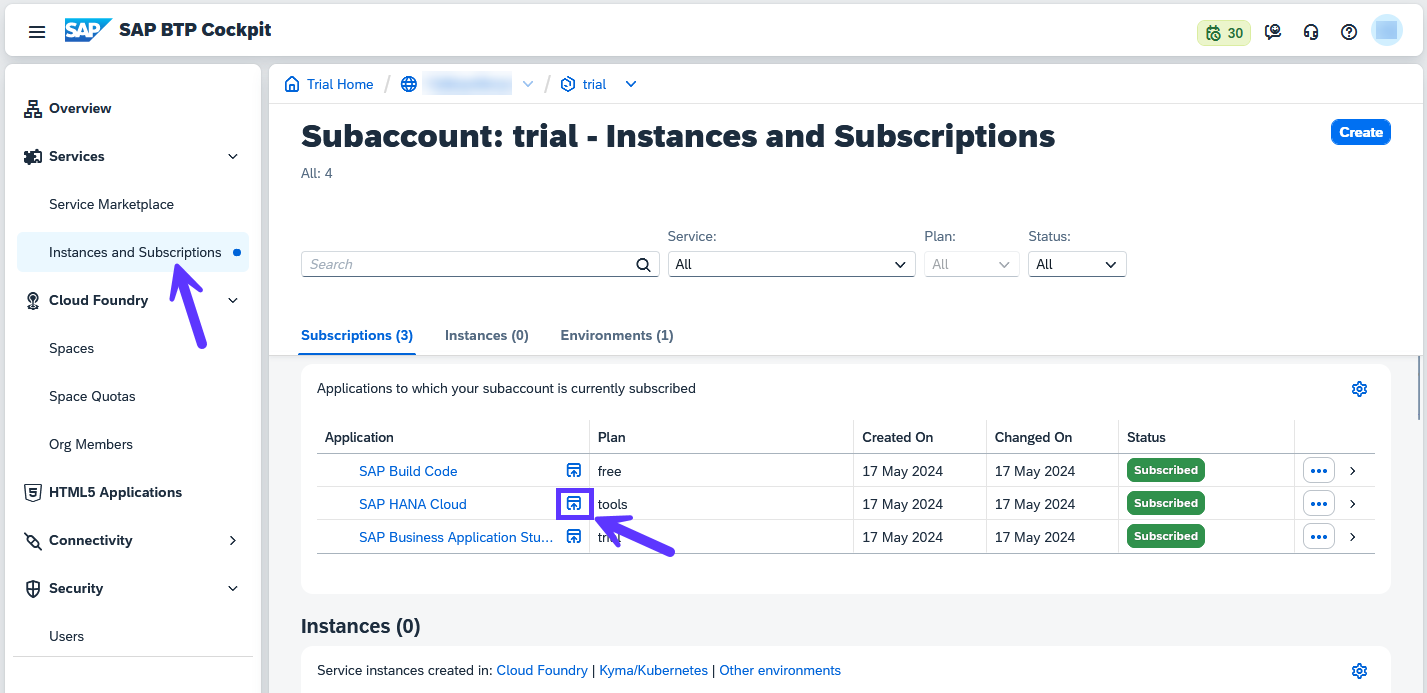
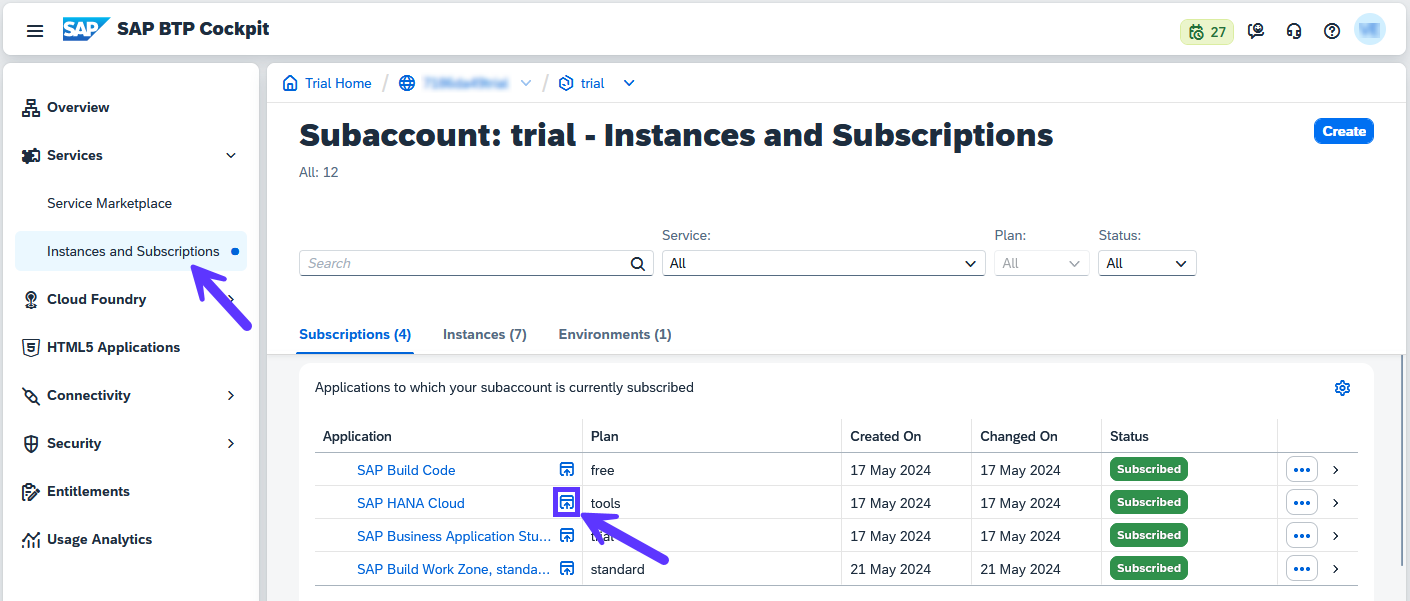
Completed step 8 - deploy

diff --git a/Customer_Loyalty_Program/8_Deploy.md b/Customer_Loyalty_Program/8_Deploy.md
@@ -1,4 +1,4 @@
-# 7 - Deploy
+# 8 - Deploy
 
 ## Preparation
 
@@ -14,27 +14,31 @@
 
 ![](./Images/8_Screenshot_Create_HANA_Tools.png)
 
-4. Go to **Security**->**Users** and assign Role Collection *SAP HANA Cloud Administrator* to your user.
+4. Now go back to the Service Marketplace and look for *SAP Build Work Zone*. Then click on **Create** and in as *Plan* choose **subscription** -> **standard**. Then press **Create**.
+
+![](./Images/8_Screenshot_Create_WZ_Service.png)
+
+5. Go to **Security**->**Users** and assign Role Collection *SAP HANA Cloud Administrator* to your user.
 
 ![](./Images/8_Screenshot_Assign_Role_Collection.png)
 
-5. Go to **Instances and Subscriptions** and wait for the *SAP HANA Cloud* subscription to be in the list. Then click on the navigation icon.
+6. Go to **Instances and Subscriptions** and wait for the *SAP HANA Cloud* subscription to be in the list. Then click on the navigation icon.
 
 ![](./Images/8_Screenshot_Goto_HANA_Application.png)
 
-6. SAP HANA Cloud Central will load. If you see an error message asking you to sign out for new authorizations to take effect, simply use the link in the error message and sign in again.
+7. SAP HANA Cloud Central will load. If you see an error message asking you to sign out for new authorizations to take effect, simply use the link in the error message and sign in again.
 
-7. Click on **Create Instance**:
+8. Click on **Create Instance**:
 
 ![](./Images/8_Screenshot_Create_Instance.png)
 
-8. Follow the steps below to configure the instance:
+9. Follow the steps below to configure the instance:
 
-1) Choose **type** *SAP HANA Cloud, SAP HANA Database* then press **Next Step**.
-1) Enter any **Name** you like, e.g. *TutorialAppInstance* and a password you will remember. Then press **Next Step**
-1) SAP HANA Database - leave the default values and press **Next Step**
-1) SAP HANA Database Availability Zone and Replicas - no action required, simply press **Next Step**
-1) SAP HANA Database Advanced Settings - Here some configuration is required:
+* Choose **type** *SAP HANA Cloud, SAP HANA Database* then press **Next Step**.
+* Enter any **Name** you like, e.g. *TutorialAppInstance* and a password you will remember. Then press **Next Step**
+* SAP HANA Database - leave the default values and press **Next Step**
+* SAP HANA Database Availability Zone and Replicas - no action required, simply press **Next Step**
+* SAP HANA Database Advanced Settings - Here some configuration is required:
   * Select **Allow all IP addresses**
   * Instance Mapping - press **Add Mapping**. For the Organization ID and Space ID we will need the URL from the tab that we left open in step 1 of the Preparation.
   * The URL has the following format: https://canary.cockpit.btp.int.sap/cockpit#/globalaccount/\<global account ID\>/subaccount/\<subaccount ID\>/org/\<org ID\>/space/\<space ID\>/applications
@@ -43,7 +47,7 @@
 
 ![](./Images/8_Screenshot_Instance_Config.png)
 
-9. Press **Create Instance**. This process might take some minutes. Wait until the instance is created before proceeding to Deployment - it will change from status *Creating* to *Running*
+10. Press **Create Instance**. This process might take some minutes. Wait until the instance is created before proceeding to Deployment - it will change from status *Creating* to *Running*
 
 ## Deployment
 
@@ -53,7 +57,7 @@
 
 2. First the app will be built. You will see the progress on the console. Wait for it to be finished and then you will be presented with the *Cloud Foundry Sign In and Targets* page.
 
-3. Use the link to open a new browser page to generate an SSO passcode. If you are asked to enter your password, be sure to use the sap.com password (not necessarily the same as the one used in the universal login). You may also reset the password if needed.
+3. Use the link to open a new browser page to generate an SSO passcode. If you are asked to enter your password, be sure to use the sap.com password (not necessarily the same as the one used in the SAP Universal ID login). You may also reset the password if needed.
 
 4. Copy the *Temporary Authentication Code* into the field and press **Sign In**
 
@@ -63,7 +67,12 @@
 
 ![](./Images/8_Screenshot_CF_Targets.png)
 
+6. After the deployment is ready, go back to your subaccount and navigate to **HTML5 Applications**. Click on the *Launchpad* link. From this launchpad you can navigate to the Web Applications.
+
+![](./Images/8_Screenshot_HTML5_Apps.png)
+
 Congratulations! Your app is now deployed to Cloud Foundry.
 
+![](./Images/8_Screenshot_Application_Overview.png)
 
-## [Next Step: Integrate to SAP Build Work Zone](./9_Integrate_to_Work_Zone.md) >
+## [Next Step: Integrate with SAP Build Work Zone](./9_Integrate_with_Work_Zone.md) >

diff --git a/README.md b/README.md
@@ -38,6 +38,6 @@ Navigate to step:
 
 [8 - Deploy](./Customer_Loyalty_Program/8_Deploy.md)
 
-[9 - Integrate to SAP Build Work Zone](./Customer_Loyalty_Program/9_Integrate_to_Work_Zone.md)
+[9 - Integrate with SAP Build Work Zone](./Customer_Loyalty_Program/9_Integrate_with_Work_Zone.md)
 
 [10 - Adapt your Application as Key User](./Customer_Loyalty_Program/10_Key_User_Adaptation.md)
